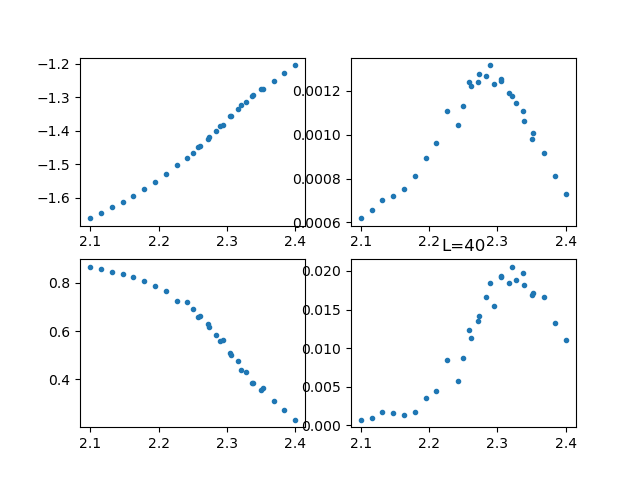
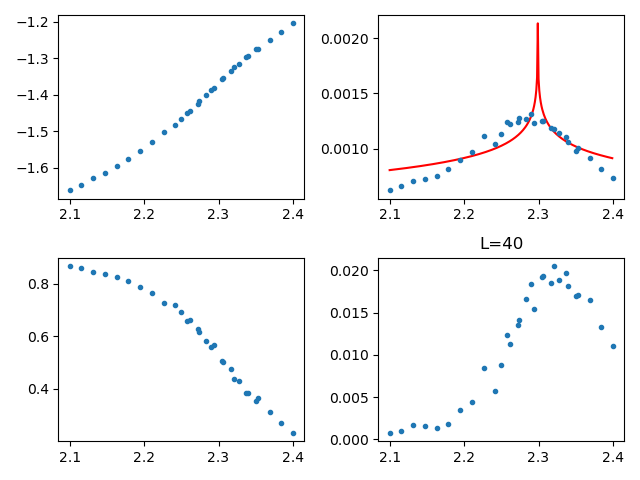
Initial work on problem 9, Implemented lograithmic fit to Cv, considering adding a fit to chi

diff --git a/problem8.py b/problem8.py
@@ -1,10 +1,25 @@
 import numpy as np
 import matplotlib.pyplot as plt
+import scipy.odr as odr
 
 
 data = np.genfromtxt(f"Data/Problem8/log.txt", dtype=str, comments="#")
         
 observables = ["eps", "Cv", "abs_m", "chi"]
+
+def f(beta, x):
+    """Function to fit against Cv
+
+    Args:
+        beta (np.array): array of length 3 (or more), used as parameters
+        x (np.array): Temperatures of the measurements
+
+    Returns:
+        y (np.array): Cv of the measurements
+    """    
+    return beta[2] * (np.log(np.abs(beta[1] * (x-beta[0]))+1e-8) + beta[3])
+model = odr.Model(f)
+beta0 = [2.3, 2, -1e-4, 3]
 
 for L in (20,40,60,80,100):
     L_data = []
@@ -18,9 +33,20 @@ for L in (20,40,60,80,100):
     
     T = L_data[:, 1].astype(float)
     
+        
+    Cv = L_data[:, 4].astype(float)
+    weights = 1e-6 * L_data[:, 2].astype(int)
+    Data = odr.Data(T, Cv, weights)
+    myodr = odr.ODR(Data, model, beta0)
+    output = myodr.run()
+    # output.pprint()
+    
+    T_ = np.arange(np.min(T), np.max(T), 1e-3, float)
+    ax2.plot(T_, f(output.beta, T_), "r-")
+    
     for i, (obs, ax) in enumerate(zip(observables, axes)):
         ax.plot(T, L_data[:, i+3].astype(float), ".")
     
-    
     plt.title(f"L={L}")
+    plt.tight_layout()
     plt.savefig(f"Data/Problem8/L={L}.png")

diff --git a/README.md b/README.md
@@ -1,28 +1,47 @@
 # FYS4150-Project-4
 
+## Dependencies
+Python packages used:
+numpy
+matplotlib.pyplot
+scipy
+
+can be installed with
+```bash
+conda install numpy matplotlib scipy
+```
+or
+```bash
+pip install numpy matplotlib scipy
+```
+
+
+## Usage
 Compile and run the test using
 ```bash
 make test
 ```
 
-## Problem 5:
+### Problem 5:
 ```bash
 make Problem5
 ```
 
-## Problem 6:
+### Problem 6:
 ```bash
 make Problem6
 ```
 
-## Problem 7:
+### Problem 7:
 ```bash
 make Problem7
 ```
 This will run a test run with L=100 and n = 1e5 for up to 10 parallel processes
-It took me about 1300 seconds or 20 min to run
+It took me about 1300 seconds or 20 min to run.
+The output to the terminal should allow you to choose a suitable number of loops to split the computations over
+If the optimum is not 8 you'll have to change the source code.
 
-## Problem 7:
+### Problem 8:
 ```bash
 make Problem8
 ./main.exe
@@ -32,4 +51,11 @@ or
 make Problem8
 ./main.exe <T_min (double)> <T_max(double)> <n_T(int)> <n(int)> [<L(int)>]
 ```
-By default this will run with 2.1 2.4 20 100.000. The results will be appended to the output file.
+By default this will run with 2.1 2.4 20 100.000. The results will be appended to the log file.
+
+### Problem 9:
+```bash
+python problem8.py
+```
+will remake the images using all of the results in Data/Problem8/log.txt
+Running simulations using problem8.cpp will add lines to the log file, which will change the output, hopefully not by much
